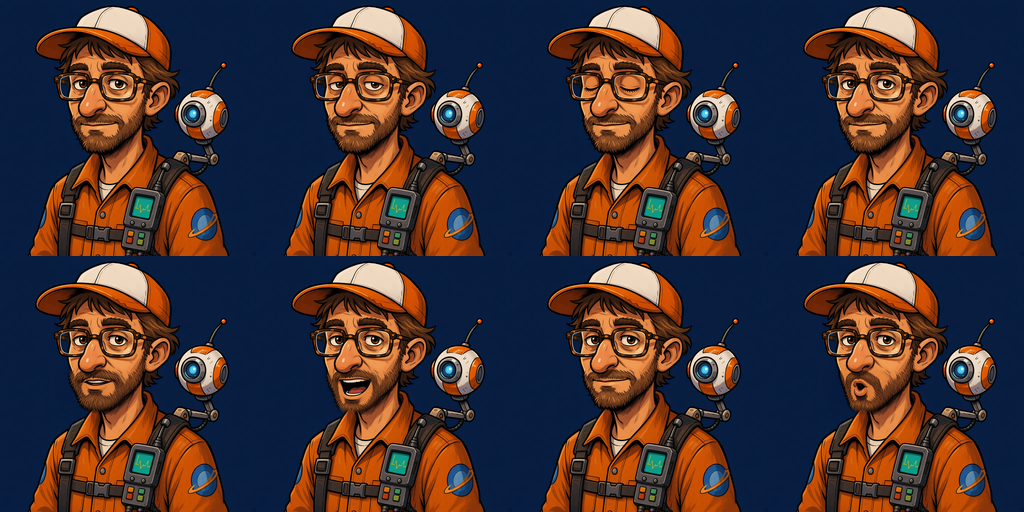
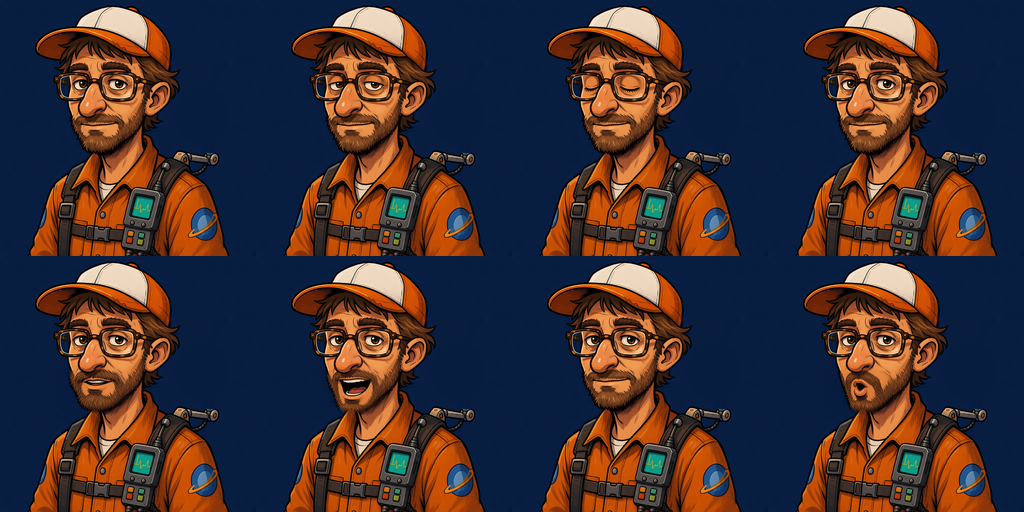
feat(art): robot dorsal de Gary en calque animé indépendant
La planche de Gary devient une base sans drone ; le drone est un calque
(gary-robot.png, 8 poses 80×112, ancré en 160/48 d'une cellule 256) qui
joue sa propre timeline par-dessus le portrait, dans le dialogue comme
dans l'intro.

diff --git a/src/ui/DialogueBox.ts b/src/ui/DialogueBox.ts
@@ -8,6 +8,7 @@ import { SHEET, portraitKey, sheetKey } from '../three/Studio';
 import { drawHazard, drawPanel } from './chrome';
 import { cssToGame, isTouch, uiPx } from './input';
 import { duckMusic } from './music';
+import { OverlayPlayer, overlayFor } from './PortraitOverlay';
 import { Blipper } from './voice';
 import { COLORS, FONT, H, W, hex, setCursor } from './theme';
 
@@ -80,6 +81,9 @@ export class DialogueBox implements DialogueView {
   private voice: TypewriterMouth | SpriteTalk;
   /** Planche actuellement montée sur `face` (évite de la remonter à chaque réplique). */
   private sheetOn: string | null = null;
+  /** Calques par-dessus la planche (drone de Gary), créés à la demande, par id. */
+  private overlays = new Map<string, OverlayPlayer>();
+  private overlayOn: OverlayPlayer | null = null;
   private typing: TypewriteHandle | null = null;
   private portraitBg: Phaser.GameObjects.Rectangle;
   private portraitText: Phaser.GameObjects.Text;
@@ -155,7 +159,18 @@ export class DialogueBox implements DialogueView {
       if (n >= 1 && n <= this.choiceZones.length) this.pickChoice?.(n - 1);
     };
     window.addEventListener('keydown', this.keyHandler);
-    scene.events.once(Phaser.Scenes.Events.SHUTDOWN, () => window.removeEventListener('keydown', this.keyHandler));
+    // le calque vit sur sa propre horloge, indépendante des boucles idle / talk
+    const tick = (_t: number, dt: number) => {
+      if (this.root.visible && this.overlayOn) {
+        this.overlayOn.setTalking(this.face.talking);
+        this.overlayOn.update(dt);
+      }
+    };
+    scene.events.on(Phaser.Scenes.Events.UPDATE, tick);
+    scene.events.once(Phaser.Scenes.Events.SHUTDOWN, () => {
+      window.removeEventListener('keydown', this.keyHandler);
+      scene.events.off(Phaser.Scenes.Events.UPDATE, tick);
+    });
   }
 
   /** Redessine le panneau avec son bord haut en `y` (le bas reste collé à l'écran). */
@@ -236,6 +251,7 @@ export class DialogueBox implements DialogueView {
         blink: f?.blink ?? { enabled: false },
       });
     }
+    this.showOverlay(hasSheet ? speaker!.id : null);
     const named = !!speaker && speaker.id !== 'narrateur' && !!speaker.name;
     this.setName(named ? speaker!.name : '', speaker?.color);
     if (speaker && !has3d) {
@@ -248,6 +264,33 @@ export class DialogueBox implements DialogueView {
     const narr = speaker?.id === 'narrateur';
     this.bodyText.setFontStyle(narr ? 'italic 500' : '500');
     this.bodyText.setColor(narr ? '#cfc6ee' : COLORS.text);
+  }
+
+  /**
+   * Calque animé du speaker (s'il en a un et que sa planche est affichée).
+   * Il est enfant du contenu de `face` : même transform, même respiration,
+   * même visibilité. Ancrage = fractions de la cellule de planche, ramenées à
+   * la taille affichée (fit « cover » de TalkingPortrait, cellule centrée sur
+   * le cadre).
+   */
+  private showOverlay(id: string | null): void {
+    const def = id ? overlayFor(this.scene, id) : null;
+    let o = def ? (this.overlays.get(id!) ?? null) : null;
+    if (def && !o) {
+      o = new OverlayPlayer(this.scene, id!);
+      this.overlays.set(id!, o);
+      // contenu interne de TalkingPortrait (celui qui respire), au-dessus de la planche
+      (this.face.container.list[0] as Phaser.GameObjects.Container).add(o.image);
+      const src = this.scene.textures.get(sheetKey(id!)).source[0];
+      const fw = src.width / SHEET.cols;
+      const fh = src.height / SHEET.rows;
+      const ps = PANEL_H - 44;
+      const k = Math.max(PORTRAIT / fw, ps / fh);
+      // repère du contenu : bas du cadre en y = 0, planche centrée en (0, -ps / 2)
+      o.place((-fw * k) / 2, -ps / 2 - (fh * k) / 2, fw * k);
+    }
+    for (const p of this.overlays.values()) p.image.setVisible(p === o);
+    this.overlayOn = o;
   }
 
   private setName(name: string, color?: string): void {

diff --git a/src/three/Studio.ts b/src/three/Studio.ts
@@ -17,6 +17,9 @@ export const portraitKey = (id: string) => `portrait3d:${id}`;
 export const sheetKey = (id: string) => `portraitSheet:${id}`;
 /** Chemin (relatif au site) de la planche de sprites d'un personnage. */
 export const sheetUrl = (id: string) => `portraits/${id}-sheet.png`;
+/** Calque animé collé par-dessus la planche (ex. drone dorsal de Gary). */
+export const overlayKey = (id: string) => `portraitOverlay:${id}`;
+export const overlayUrl = (id: string) => `portraits/${id}-robot.png`;
 
 /** Une frame de planche : expression + micro-mouvement du buste. */
 interface SheetFrame extends FacePose {
@@ -227,6 +230,78 @@ function canvas(w: number, h: number): [HTMLCanvasElement, CanvasRenderingContex
   return [c, c.getContext('2d')!];
 }
 
+/** Une frame de calque et sa durée (ms). */
+export interface OverlayStep {
+  frame: number;
+  duration: number;
+}
+
+/**
+ * Calque de portrait (contrat partagé avec docs/PORTRAIT_GENAI.md) : bande de
+ * `frames` frames `frameW × frameH` en ligne, dont le coin haut-gauche se pose
+ * en (`x`, `y`) d'une cellule de planche de `cell` px. Il joue SA PROPRE
+ * timeline, indépendante des boucles idle / talk du personnage ; `talk` est la
+ * variante lue pendant que le personnage parle (sans resynchronisation).
+ */
+export interface PortraitOverlay {
+  frames: number;
+  frameW: number;
+  frameH: number;
+  cell: number;
+  x: number;
+  y: number;
+  idle: readonly OverlayStep[];
+  talk: readonly OverlayStep[];
+}
+
+/**
+ * Gary : le drone dorsal est un sprite séparé (planche de base sans robot).
+ * Poses : r0 neutre · r1 flotte · r2 haut de flottaison · r3 penche dehors ·
+ * r4 regarde Gary · r5 regarde Gary + pulse · r6 obturateur mi-clos · r7 fermé.
+ */
+export const PORTRAIT_OVERLAYS: Readonly<Record<string, PortraitOverlay>> = {
+  gary: {
+    frames: 8,
+    frameW: 80,
+    frameH: 112,
+    cell: 256,
+    x: 160,
+    y: 48,
+    // ~8,9 s, volontairement décalée de SHEET.idle
+    idle: [
+      { frame: 0, duration: 900 },
+      { frame: 1, duration: 500 },
+      { frame: 2, duration: 700 },
+      { frame: 1, duration: 400 },
+      { frame: 0, duration: 600 },
+      { frame: 3, duration: 800 },
+      { frame: 4, duration: 700 },
+      { frame: 5, duration: 500 },
+      { frame: 4, duration: 400 },
+      { frame: 0, duration: 500 },
+      { frame: 6, duration: 70 },
+      { frame: 7, duration: 110 },
+      { frame: 6, duration: 70 },
+      { frame: 0, duration: 800 },
+    ],
+    // Gary parle : le drone le regarde davantage, à son rythme
+    talk: [
+      { frame: 4, duration: 800 },
+      { frame: 5, duration: 450 },
+      { frame: 4, duration: 600 },
+      { frame: 1, duration: 500 },
+      { frame: 2, duration: 600 },
+      { frame: 4, duration: 700 },
+      { frame: 5, duration: 400 },
+      { frame: 4, duration: 500 },
+      { frame: 6, duration: 70 },
+      { frame: 7, duration: 110 },
+      { frame: 6, duration: 70 },
+      { frame: 0, duration: 600 },
+    ],
+  },
+};
+
 function shootSingle(renderer: THREE.WebGLRenderer, pose: Pose, size: number, bg?: [string, string]): HTMLCanvasElement {
   const [c, g] = canvas(size, size);
   const s = studio(renderer, pose, bg);
@@ -257,6 +332,7 @@ export function renderPortraitSheets(): Record<string, HTMLCanvasElement> {
 /** Charge les planches de public/portraits/ (à appeler dans un `preload`). */
 export function preloadPortraitSheets(load: Phaser.Loader.LoaderPlugin): void {
   for (const id of PORTRAIT_IDS) if (!load.textureManager.exists(sheetKey(id))) load.image(sheetKey(id), sheetUrl(id));
+  for (const id of Object.keys(PORTRAIT_OVERLAYS)) if (!load.textureManager.exists(overlayKey(id))) load.image(overlayKey(id), overlayUrl(id));
 }
 
 /** Génère (une fois par jeu) toutes les textures d'icônes et de portraits. */

diff --git a/src/ui/PortraitOverlay.ts b/src/ui/PortraitOverlay.ts
@@ -1,0 +1,68 @@
+// Calque animé collé par-dessus un portrait-planche (drone dorsal de Gary) :
+// une Image Phaser sur la texture `overlayKey(id)`, qui joue sa propre
+// timeline (PORTRAIT_OVERLAYS dans Studio.ts), sans se caler sur idle / talk.
+import Phaser from 'phaser';
+import { PORTRAIT_OVERLAYS, overlayKey, type OverlayStep, type PortraitOverlay } from '../three/Studio';
+
+/** Calque d'un personnage, si sa texture est chargée. */
+export function overlayFor(scene: Phaser.Scene, id: string): PortraitOverlay | null {
+  const o = PORTRAIT_OVERLAYS[id];
+  return o && scene.textures.exists(overlayKey(id)) ? o : null;
+}
+
+export class OverlayPlayer {
+  readonly image: Phaser.GameObjects.Image;
+  private def: PortraitOverlay;
+  private seq: readonly OverlayStep[];
+  private i: number;
+  private left: number;
+  private talking = false;
+  private shown = -1;
+
+  constructor(scene: Phaser.Scene, id: string) {
+    const def = (this.def = PORTRAIT_OVERLAYS[id]);
+    const key = overlayKey(id);
+    const tex = scene.textures.get(key);
+    if (!tex.has('r0')) {
+      // la bande peut être servie à une autre échelle que frameW × frameH
+      const fw = tex.source[0].width / def.frames;
+      const fh = tex.source[0].height;
+      for (let i = 0; i < def.frames; i++) tex.add(`r${i}`, 0, i * fw, 0, fw, fh);
+    }
+    this.image = scene.add.image(0, 0, key, 'r0').setOrigin(0);
+    // départ à un point aléatoire de la boucle : deux portraits ne bougent pas pareil
+    this.seq = def.idle;
+    this.i = Math.floor(Math.random() * this.seq.length);
+    this.left = this.seq[this.i].duration * (0.3 + Math.random() * 0.7);
+    this.update(0);
+  }
+
+  /**
+   * Pose le calque sur un portrait dont une cellule de planche mesure `cellPx`
+   * px à l'écran et a son coin haut-gauche en (`left`, `top`) (repère du parent).
+   */
+  place(left: number, top: number, cellPx: number): this {
+    const k = cellPx / this.def.cell;
+    this.image.setPosition(left + this.def.x * k, top + this.def.y * k).setDisplaySize(this.def.frameW * k, this.def.frameH * k);
+    return this;
+  }
+
+  /** Bascule la variante « le personnage parle » sans remettre la boucle à zéro. */
+  setTalking(on: boolean): void {
+    if (on === this.talking) return;
+    this.talking = on;
+    this.seq = on ? this.def.talk : this.def.idle;
+    // la pose en cours finit son temps ; la suite reprend au même rang dans l'autre boucle
+    this.i %= this.seq.length;
+  }
+
+  update(dt: number): void {
+    this.left -= dt;
+    while (this.left <= 0) {
+      this.i = (this.i + 1) % this.seq.length;
+      this.left += this.seq[this.i].duration;
+    }
+    const f = this.seq[this.i].frame;
+    if (f !== this.shown) this.image.setFrame(`r${(this.shown = f)}`);
+  }
+}

diff --git a/src/scenes/IntroScene.ts b/src/scenes/IntroScene.ts
@@ -10,6 +10,7 @@ import { SHEET, iconKey, sheetKey } from '../three/Studio';
 import { makeButton } from '../ui/Button';
 import { drawHazard, drawLed, drawPanel } from '../ui/chrome';
 import { isTouch } from '../ui/input';
+import { OverlayPlayer, overlayFor } from '../ui/PortraitOverlay';
 import { PressRing } from '../ui/PressRing';
 import { playMusic } from '../ui/music';
 import { blip, glitch, plouf, thud, whoosh } from '../ui/sfx';
@@ -53,9 +54,11 @@ const BAR = 56;
 const SUB_Y = H - BAR - 74;
 const CPS = 40;
 
-/** Portrait animé depuis une planche Studio (boucles idle / talk). */
+/** Portrait animé depuis une planche Studio (boucles idle / talk), + calque éventuel. */
 class SheetPortrait {
   readonly image: Phaser.GameObjects.Image;
+  /** Calque sur sa propre timeline (drone dorsal de Gary), au-dessus de `image`. */
+  readonly overlay: OverlayPlayer | null = null;
   private seq: readonly { frame: number; duration: number }[] = SHEET.idle;
   private i = 0;
   private left: number = SHEET.idle[0].duration;
@@ -71,6 +74,12 @@ class SheetPortrait {
       for (let i = 0; i < SHEET.cols * SHEET.rows; i++) tex.add(`f${i}`, 0, (i % SHEET.cols) * fw, Math.floor(i / SHEET.cols) * fh, fw, fh);
     }
     this.image = scene.add.image(x, y, key, 'f0').setDisplaySize(size, size);
+    if (overlayFor(scene, id)) this.overlay = new OverlayPlayer(scene, id).place(x - size / 2, y - size / 2, size);
+  }
+
+  /** Objets à empiler dans le cadre, de bas en haut. */
+  get layers(): Phaser.GameObjects.Image[] {
+    return this.overlay ? [this.image, this.overlay.image] : [this.image];
   }
 
   talk(on: boolean): void {
@@ -89,6 +98,8 @@ class SheetPortrait {
       this.left += this.seq[this.i].duration;
       this.image.setFrame(`f${this.seq[this.i].frame}`);
     }
+    this.overlay?.setTalking(this.talking);
+    this.overlay?.update(dt);
   }
 }
 
@@ -466,7 +477,7 @@ export class IntroScene extends Phaser.Scene {
     const lines = this.add.graphics();
     lines.fillStyle(0x07050f, 0.16);
     for (let sy = -size / 2; sy < size / 2; sy += 4) lines.fillRect(-size / 2, sy, size, 1);
-    const c = this.add.container(x, y, [g, face.image, lines]);
+    const c = this.add.container(x, y, [g, ...face.layers, lines]);
     this.layer.add(c);
     return c;
   }

diff --git a/docs/PORTRAIT_GENAI.md b/docs/PORTRAIT_GENAI.md
@@ -20,11 +20,12 @@ dans `Studio.ts`) : ni `bake:portraits` ni le boot ne les régénèrent ou ne le
 uni `#071D40`. Seuls la bouche et les yeux changent.
 
 Fichiers :
-- `public/portraits/gary-sheet.png` — planche v2, 1024 × 512, 4 × 2 frames de 256 px.
-  **C'est la source de vérité suivie dans le repo** (copie exacte de la v2 validée,
-  sha256 `feea3813…a9334a`).
-- `public/portraits/gary-ref.png` — frame idle0 de la v2 seule (256 × 256), référence pour
-  les prochaines générations.
+- `public/portraits/gary-sheet.png` — planche de **base** v3, 1024 × 512, 4 × 2 frames de 256 px :
+  pixels de la v2 validée, **drone retiré** (fond navy rebouché). Le drone est un calque
+  séparé, voir « Gary : base + calque robot » ci-dessous.
+- `public/portraits/gary-robot.png` — calque du drone dorsal (8 poses).
+- `public/portraits/gary-ref.png` — frame idle0 de la v2 seule (256 × 256, drone compris),
+  référence pour les prochaines générations.
 
 Aucun bake ne l'écrase : `bake:portraits` et le bake runtime au boot sautent Gary
 (`GENAI_SHEETS` dans `Studio.ts`), et il n'y a pas de script `predev` / `prebuild`.
@@ -51,6 +52,48 @@ Régénérer :
 3. Copier `gary-sheet.png` et `gary-ref.png` (frame 0) dans `public/portraits/`.
 4. Ne **pas** lancer de bake pour Gary : il est exclu via `GENAI_SHEETS`.
 
+## Gary : base + calque robot
+
+Le mini-robot sur le dos de Gary (drone dorsal du design Janék — **pas** B.O.B.) est un
+sprite séparé, collé par-dessus le portrait et animé sur **sa propre timeline** : toutes
+les combinaisons pose de Gary × pose du drone sont possibles.
+
+Fichiers :
+- `public/portraits/gary-sheet.png` — base 1024 × 512, même layout que la v2 (4 × 2 @256),
+  pixels v2 identiques hors drone ; drone retiré, fond rebouché.
+- `public/portraits/gary-robot.png` — bande 640 × 112 RGBA, **8 frames de 80 × 112** en
+  ligne, fond transparent.
+
+Ancrage : le coin haut-gauche de chaque frame robot se pose en **(x = 160, y = 48)** d'une
+cellule de 256 px de la planche ; à l'écran, offset = (160/256, 48/256) et taille =
+(80/256, 112/256) de la taille affichée de la cellule. Base + robot r0 reproduit la v2
+(MAD 0,03).
+
+| r0 | r1 | r2 | r3 | r4 | r5 | r6 | r7 |
+|---|---|---|---|---|---|---|---|
+| neutre | flotte (−1 px) | haut de flottaison (tilt) | penche dehors | regarde Gary | regarde Gary + pulse de lueur | obturateur mi-clos | obturateur fermé (clignement) |
+
+Code :
+- `PORTRAIT_OVERLAYS` dans `src/three/Studio.ts` : géométrie (frames, taille, ancrage en px
+  de cellule 256) et timelines `idle` (~8,9 s, durées irrégulières, décalée de `SHEET.idle`)
+  / `talk` (plus de r4 / r5 : il regarde Gary pendant qu'il parle). Texture `overlayKey(id)`
+  = `portraitOverlay:gary`, chargée par `preloadPortraitSheets`.
+- `src/ui/PortraitOverlay.ts` (`OverlayPlayer`) : Image Phaser découpée en frames `r0..r7`,
+  départ à un rang aléatoire de la boucle. Passer en `talk` ne remet **pas** la boucle à
+  zéro (la pose en cours finit son temps, la suite reprend au même rang) : aucune synchro
+  avec le lip-flap.
+- Dialogue (`DialogueBox`) : le calque est enfant du conteneur interne de `TalkingPortrait`
+  (même transform, respiration et visibilité que la face), placé d'après le fit « cover »
+  de la planche. Visible seulement si le speaker a un calque et que sa planche est affichée.
+- Intro (`SheetPortrait` dans `IntroScene`) : même calque au-dessus de la planche, dans le
+  même cadre.
+
+Régénérer : script **hors repo** `v3-build.py` (copie dans `_briefs/gary-overlay/`, non
+suivi), qui part du master v2 (`v2-gary-master.png`) et du masque robot v2b
+(`v2b-robot-mask.png`) : détourage du drone, rebouchage du fond pour la base, puis rendu
+des 8 poses du calque. Garder la bande à 8 × (80 × 112) et l'ancrage 160/48, ou mettre à
+jour `PORTRAIT_OVERLAYS` en conséquence.
+
 ## Layout de la planche (`{id}-sheet.png`)
 
 Grille **4 colonnes × 2 lignes**, frames carrées, lues ligne par ligne.
@@ -67,7 +110,7 @@ talk = 4 5 6 5 7 4 6 7 à 9 i/s. Entre deux frames, **seuls la bouche, les yeux 
 micro-mouvement de tête** changent : même cadrage, même fond, même éclairage.
 
 - Gary (design « Janék », voir `docs/STORY.md`) : vraie bouche dans la barbe de trois jours ;
-  le drone sur l'épaule penche la tête (frame idle3) — garder son œil bleu dans le cadre.
+  le drone dorsal est un calque à part (voir « Gary : base + calque robot »).
 - B.O.B. : la « bouche » est un égaliseur LED cyan sur la plaque (barres plus ou moins hautes).
 - SYLVIE : visage-écran ; bouche = ovale lumineux qui grandit ; clignement = « —   — ».
 - Reine : mandibules qui s'écartent, gueule sombre qui s'ouvre.
